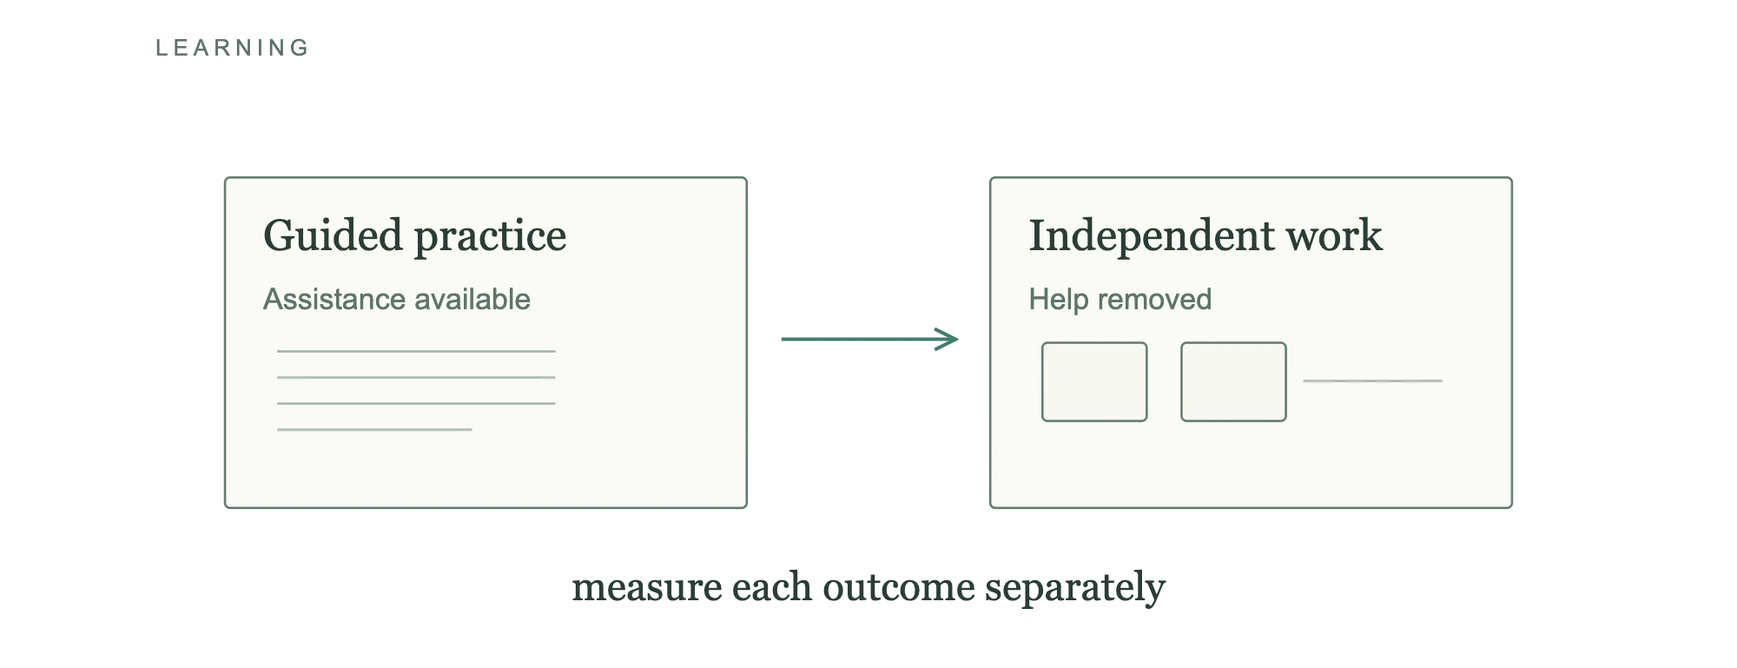
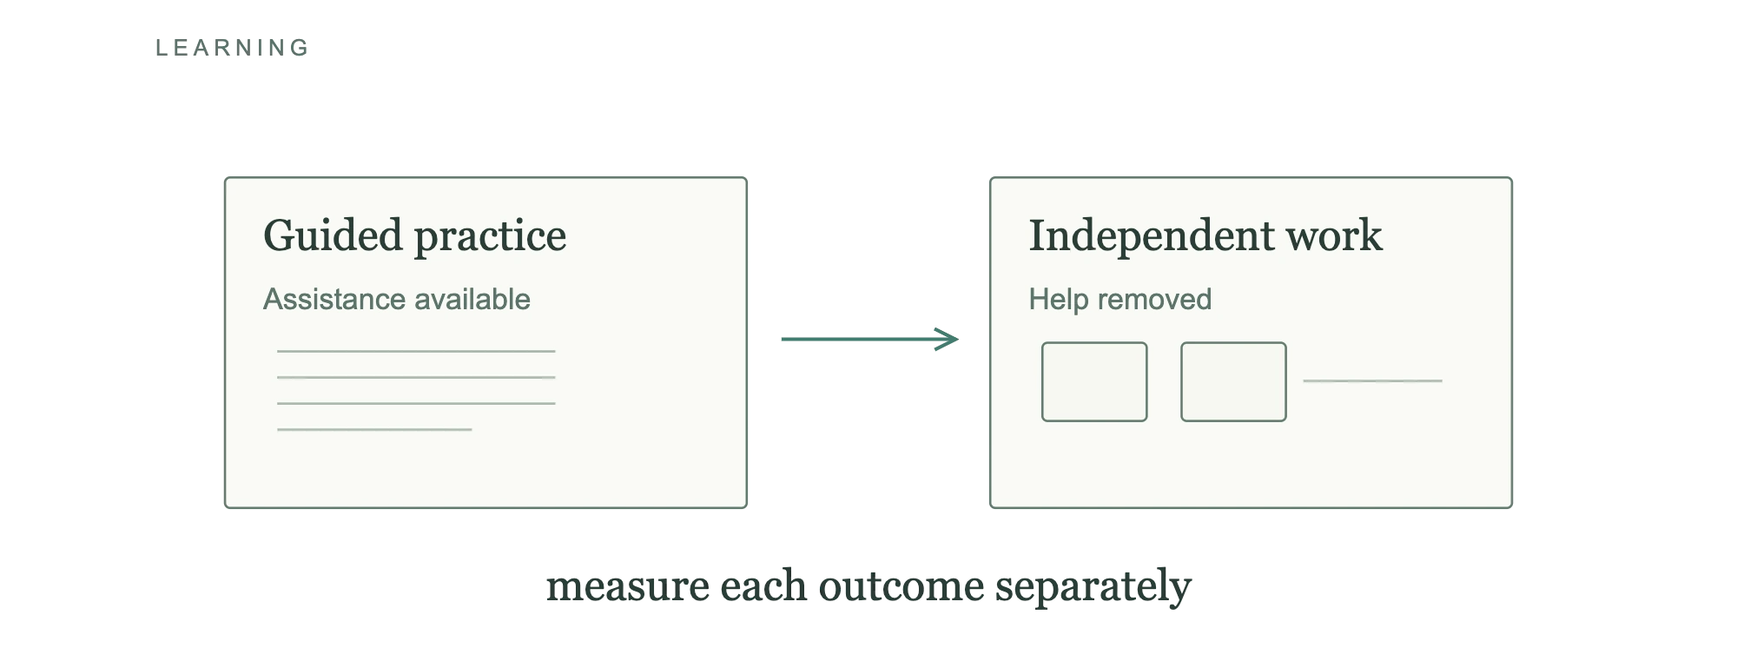
Give five industry covers a drawing that argues and a serif conclusion

Changed region(s): [[0.31, 0.8427, 0.682, 0.9051]]

diff --git a/scripts/covers/choosing-an-export-for-the-next-person.html b/scripts/covers/choosing-an-export-for-the-next-person.html
@@ -1,1 +1,1 @@
-<!doctype html><html lang="en"><head><meta charset="utf-8"><title>Choosing an export for the next person</title><style>*{box-sizing:border-box;margin:0}html,body{background:#e9ecea}.sheet{position:relative;width:var(--w);height:var(--h);overflow:hidden;background:#e2e8e3}.sheet img{position:absolute;width:100%;height:100%;object-fit:cover;filter:saturate(.45)}.wash{position:absolute;inset:0;background:linear-gradient(140deg,rgba(235,239,233,.82),rgba(230,236,232,.93))}svg{position:absolute;inset:0;width:100%;height:100%}text{font-family:Georgia,serif;fill:#293d37}.quiet,.eyebrow{font-family:Arial,sans-serif;fill:#5c746c}.eyebrow{letter-spacing:3px;font-size:13px}.box{fill:#f6f7ef;fill-opacity:.68;stroke:#637b71;stroke-width:1.3}.boundary{fill:none;stroke:#9aafa5;stroke-width:1;stroke-dasharray:4 7}.line{fill:none;stroke:#526d62;stroke-width:1.8}.accent{fill:none;stroke:#437c70;stroke-width:2}.faint{fill:none;stroke:#81978b;stroke-width:1.4;opacity:.65}.dash{fill:none;stroke:#437c70;stroke-width:1.5;stroke-dasharray:5 5}.dot{fill:#437c70}.registration{fill:none;stroke:#8da196;stroke-width:1}</style></head><body><div class="sheet"><img src="ph-engine.jpg" alt=""><div class="wash"></div><svg id="plate" xmlns="http://www.w3.org/2000/svg"><defs><marker id="arrow" markerWidth="8" markerHeight="8" refX="7" refY="4" orient="auto"><path d="M1 1 L7 4 L1 7" fill="none" stroke="#437c70" stroke-width="1"/></marker></defs><g id="content"><text x="60" y="0" font-size="13" class="eyebrow" text-anchor="start">DOCUMENTS</text><g transform="translate(0 35)"><rect x="55" y="25" width="245" height="215" rx="3" class="box"></rect><text x="77" y="67" font-size="25" class="label" text-anchor="start">Read</text><text x="77" y="101" font-size="17" class="quiet" text-anchor="start">A reference copy</text><path d="M80 135 L250 135" class="faint"></path><path d="M80 150 L250 150" class="faint"></path><path d="M80 165 L250 165" class="faint"></path><path d="M80 180 L199.0 180" class="faint"></path><rect x="345" y="25" width="245" height="215" rx="3" class="box"></rect><text x="367" y="67" font-size="25" class="label" text-anchor="start">Revise</text><text x="367" y="101" font-size="17" class="quiet" text-anchor="start">Editable content</text><path d="M370 135 L540 135" class="faint"></path><path d="M370 150 L540 150" class="faint"></path><path d="M370 165 L540 165" class="faint"></path><path d="M370 180 L489.0 180" class="faint"></path><rect x="635" y="25" width="245" height="215" rx="3" class="box"></rect><text x="657" y="67" font-size="25" class="label" text-anchor="start">Present</text><text x="657" y="101" font-size="17" class="quiet" text-anchor="start">A viewing format</text><path d="M660 135 L830 135" class="faint"></path><path d="M660 150 L830 150" class="faint"></path><path d="M660 165 L830 165" class="faint"></path><path d="M660 180 L779.0 180" class="faint"></path></g></g></svg></div><script>const [w,h]=(location.hash.slice(1)||'2000x769').split('x').map(Number);document.querySelector('.sheet').style.cssText=`--w:${w}px;--h:${h}px`;const wide=w/h>2;document.querySelector('svg').setAttribute('viewBox',`0 0 940 ${wide?384:627}`);document.getElementById('content').setAttribute('transform',`translate(0 ${wide?32:145})`);</script></body></html>
+<!doctype html><html lang="en"><head><meta charset="utf-8"><title>Choosing an export for the next person</title><style>*{box-sizing:border-box;margin:0}html,body{background:#e9ecea}.sheet{position:relative;width:var(--w);height:var(--h);overflow:hidden;background:#e2e8e3}.sheet img{position:absolute;width:100%;height:100%;object-fit:cover;filter:saturate(.45)}.wash{position:absolute;inset:0;background:linear-gradient(140deg,rgba(235,239,233,.82),rgba(230,236,232,.93))}svg{position:absolute;inset:0;width:100%;height:100%}text{font-family:Georgia,serif;fill:#293d37}.quiet,.eyebrow{font-family:Arial,sans-serif;fill:#5c746c}.eyebrow{letter-spacing:3px;font-size:13px}.box{fill:#f6f7ef;fill-opacity:.68;stroke:#637b71;stroke-width:1.3}.boundary{fill:none;stroke:#9aafa5;stroke-width:1;stroke-dasharray:4 7}.line{fill:none;stroke:#526d62;stroke-width:1.8}.accent{fill:none;stroke:#437c70;stroke-width:2}.faint{fill:none;stroke:#81978b;stroke-width:1.4;opacity:.65}.dash{fill:none;stroke:#437c70;stroke-width:1.5;stroke-dasharray:5 5}.dot{fill:#437c70}.registration{fill:none;stroke:#8da196;stroke-width:1}</style></head><body><div class="sheet"><img src="ph-engine.jpg" alt=""><div class="wash"></div><svg id="plate" xmlns="http://www.w3.org/2000/svg"><defs><marker id="arrow" markerWidth="8" markerHeight="8" refX="7" refY="4" orient="auto"><path d="M1 1 L7 4 L1 7" fill="none" stroke="#437c70" stroke-width="1"/></marker></defs><g id="content"><text x="60" y="0" font-size="13" class="eyebrow" text-anchor="start">DOCUMENTS</text><g transform="translate(0 35)"><rect x="55" y="20" width="330" height="185" rx="3" class="box"></rect><text x="77" y="62" font-size="25" class="label" text-anchor="start">One exported file</text><text x="77" y="96" font-size="17" class="quiet" text-anchor="start">Sent to the next person</text><path d="M85 108 L305 108" class="faint"></path><path d="M85 123 L239.0 123" class="faint"></path><rect x="85" y="140" width="165" height="56" rx="3" class="box"></rect><path d="M108 188 L108 168" class="faint"></path><path d="M133 188 L133 152" class="faint"></path><path d="M158 188 L158 174" class="faint"></path><path d="M183 188 L183 158" class="faint"></path><path d="M208 188 L208 164" class="faint"></path><path d="M400 112 L470 112" class="accent" marker-end="url(#arrow)"></path><path d="M510 58 l8 8 l18 -21" class="accent"></path><text x="550" y="63" font-size="23" class="label" text-anchor="start">It opens</text><path d="M510 112 l8 8 l18 -21" class="accent"></path><text x="550" y="117" font-size="23" class="label" text-anchor="start">It looks right</text><path d="M512 153 l16 26 M528 153 l-16 26" class="accent"></path><text x="550" y="171" font-size="23" class="label" text-anchor="start">The chart is a picture</text><text x="470" y="272" font-size="25" class="label" text-anchor="middle">the next task is the test</text></g></g></svg></div><script>const [w,h]=(location.hash.slice(1)||'2000x769').split('x').map(Number);document.querySelector('.sheet').style.cssText=`--w:${w}px;--h:${h}px`;const wide=w/h>2;document.querySelector('svg').setAttribute('viewBox',`0 0 940 ${wide?384:627}`);document.getElementById('content').setAttribute('transform',`translate(0 ${wide?32:145})`);</script></body></html>

diff --git a/scripts/covers/remembering-after-practice.html b/scripts/covers/remembering-after-practice.html
@@ -1,1 +1,1 @@
-<!doctype html><html lang="en"><head><meta charset="utf-8"><title>Checking what a learner remembers later</title><style>*{box-sizing:border-box;margin:0}html,body{background:#e9ecea}.sheet{position:relative;width:var(--w);height:var(--h);overflow:hidden;background:#e2e8e3}.sheet img{position:absolute;width:100%;height:100%;object-fit:cover;filter:saturate(.45)}.wash{position:absolute;inset:0;background:linear-gradient(140deg,rgba(235,239,233,.82),rgba(230,236,232,.93))}svg{position:absolute;inset:0;width:100%;height:100%}text{font-family:Georgia,serif;fill:#293d37}.quiet,.eyebrow{font-family:Arial,sans-serif;fill:#5c746c}.eyebrow{letter-spacing:3px;font-size:13px}.box{fill:#f6f7ef;fill-opacity:.68;stroke:#637b71;stroke-width:1.3}.boundary{fill:none;stroke:#9aafa5;stroke-width:1;stroke-dasharray:4 7}.line{fill:none;stroke:#526d62;stroke-width:1.8}.accent{fill:none;stroke:#437c70;stroke-width:2}.faint{fill:none;stroke:#81978b;stroke-width:1.4;opacity:.65}.dash{fill:none;stroke:#437c70;stroke-width:1.5;stroke-dasharray:5 5}.dot{fill:#437c70}.registration{fill:none;stroke:#8da196;stroke-width:1}</style></head><body><div class="sheet"><img src="ph-engine.jpg" alt=""><div class="wash"></div><svg id="plate" xmlns="http://www.w3.org/2000/svg"><defs><marker id="arrow" markerWidth="8" markerHeight="8" refX="7" refY="4" orient="auto"><path d="M1 1 L7 4 L1 7" fill="none" stroke="#437c70" stroke-width="1"/></marker></defs><g id="content"><text x="60" y="0" font-size="13" class="eyebrow" text-anchor="start">LEARNING</text><g transform="translate(0 35)"><circle cx="160" cy="80" r="42" class="line"></circle><text x="160" y="88" font-size="26" class="label" text-anchor="middle">1</text><text x="160" y="164" font-size="24" class="label" text-anchor="middle">Study</text><text x="160" y="200" font-size="18" class="quiet" text-anchor="middle">Meet the idea</text><circle cx="470" cy="80" r="42" class="line"></circle><text x="470" y="88" font-size="26" class="label" text-anchor="middle">2</text><text x="470" y="164" font-size="24" class="label" text-anchor="middle">Recall</text><text x="470" y="200" font-size="18" class="quiet" text-anchor="middle">Try without the text</text><circle cx="780" cy="80" r="42" class="line"></circle><text x="780" y="88" font-size="26" class="label" text-anchor="middle">3</text><text x="780" y="164" font-size="24" class="label" text-anchor="middle">Return</text><text x="780" y="200" font-size="18" class="quiet" text-anchor="middle">Check after a delay</text><path d="M220 80 L410 80" class="accent" marker-end="url(#arrow)"></path><path d="M530 80 L720 80" class="accent" marker-end="url(#arrow)"></path></g></g></svg></div><script>const [w,h]=(location.hash.slice(1)||'2000x769').split('x').map(Number);document.querySelector('.sheet').style.cssText=`--w:${w}px;--h:${h}px`;const wide=w/h>2;document.querySelector('svg').setAttribute('viewBox',`0 0 940 ${wide?384:627}`);document.getElementById('content').setAttribute('transform',`translate(0 ${wide?32:145})`);</script></body></html>
+<!doctype html><html lang="en"><head><meta charset="utf-8"><title>Checking what a learner remembers later</title><style>*{box-sizing:border-box;margin:0}html,body{background:#e9ecea}.sheet{position:relative;width:var(--w);height:var(--h);overflow:hidden;background:#e2e8e3}.sheet img{position:absolute;width:100%;height:100%;object-fit:cover;filter:saturate(.45)}.wash{position:absolute;inset:0;background:linear-gradient(140deg,rgba(235,239,233,.82),rgba(230,236,232,.93))}svg{position:absolute;inset:0;width:100%;height:100%}text{font-family:Georgia,serif;fill:#293d37}.quiet,.eyebrow{font-family:Arial,sans-serif;fill:#5c746c}.eyebrow{letter-spacing:3px;font-size:13px}.box{fill:#f6f7ef;fill-opacity:.68;stroke:#637b71;stroke-width:1.3}.boundary{fill:none;stroke:#9aafa5;stroke-width:1;stroke-dasharray:4 7}.line{fill:none;stroke:#526d62;stroke-width:1.8}.accent{fill:none;stroke:#437c70;stroke-width:2}.faint{fill:none;stroke:#81978b;stroke-width:1.4;opacity:.65}.dash{fill:none;stroke:#437c70;stroke-width:1.5;stroke-dasharray:5 5}.dot{fill:#437c70}.registration{fill:none;stroke:#8da196;stroke-width:1}</style></head><body><div class="sheet"><img src="ph-engine.jpg" alt=""><div class="wash"></div><svg id="plate" xmlns="http://www.w3.org/2000/svg"><defs><marker id="arrow" markerWidth="8" markerHeight="8" refX="7" refY="4" orient="auto"><path d="M1 1 L7 4 L1 7" fill="none" stroke="#437c70" stroke-width="1"/></marker></defs><g id="content"><text x="60" y="0" font-size="13" class="eyebrow" text-anchor="start">LEARNING</text><g transform="translate(0 35)"><circle cx="150" cy="80" r="42" class="line"></circle><text x="150" y="88" font-size="26" class="label" text-anchor="middle">1</text><text x="150" y="164" font-size="24" class="label" text-anchor="middle">Study</text><text x="150" y="200" font-size="18" class="quiet" text-anchor="middle">Meet the idea</text><circle cx="430" cy="80" r="42" class="line"></circle><text x="430" y="88" font-size="26" class="label" text-anchor="middle">2</text><text x="430" y="164" font-size="24" class="label" text-anchor="middle">Recall</text><text x="430" y="200" font-size="18" class="quiet" text-anchor="middle">Try without the text</text><circle cx="820" cy="80" r="42" class="line"></circle><text x="820" y="88" font-size="26" class="label" text-anchor="middle">3</text><text x="820" y="164" font-size="24" class="label" text-anchor="middle">Return</text><text x="820" y="200" font-size="18" class="quiet" text-anchor="middle">Check after a delay</text><path d="M198 80 L382 80" class="accent" marker-end="url(#arrow)"></path><path d="M478 80 L772 80" class="accent" marker-end="url(#arrow)"></path><text x="625" y="62" font-size="19" class="quiet" text-anchor="middle">two days, then a week</text><text x="470" y="268" font-size="25" class="label" text-anchor="middle">the delay is part of the test</text></g></g></svg></div><script>const [w,h]=(location.hash.slice(1)||'2000x769').split('x').map(Number);document.querySelector('.sheet').style.cssText=`--w:${w}px;--h:${h}px`;const wide=w/h>2;document.querySelector('svg').setAttribute('viewBox',`0 0 940 ${wide?384:627}`);document.getElementById('content').setAttribute('transform',`translate(0 ${wide?32:145})`);</script></body></html>

diff --git a/scripts/covers/what-an-agent-can-change.html b/scripts/covers/what-an-agent-can-change.html
@@ -1,1 +1,1 @@
-<!doctype html><html lang="en"><head><meta charset="utf-8"><title>What an agent is allowed to change</title><style>*{box-sizing:border-box;margin:0}html,body{background:#e9ecea}.sheet{position:relative;width:var(--w);height:var(--h);overflow:hidden;background:#e2e8e3}.sheet img{position:absolute;width:100%;height:100%;object-fit:cover;filter:saturate(.45)}.wash{position:absolute;inset:0;background:linear-gradient(140deg,rgba(235,239,233,.82),rgba(230,236,232,.93))}svg{position:absolute;inset:0;width:100%;height:100%}text{font-family:Georgia,serif;fill:#293d37}.quiet,.eyebrow{font-family:Arial,sans-serif;fill:#5c746c}.eyebrow{letter-spacing:3px;font-size:13px}.box{fill:#f6f7ef;fill-opacity:.68;stroke:#637b71;stroke-width:1.3}.boundary{fill:none;stroke:#9aafa5;stroke-width:1;stroke-dasharray:4 7}.line{fill:none;stroke:#526d62;stroke-width:1.8}.accent{fill:none;stroke:#437c70;stroke-width:2}.faint{fill:none;stroke:#81978b;stroke-width:1.4;opacity:.65}.dash{fill:none;stroke:#437c70;stroke-width:1.5;stroke-dasharray:5 5}.dot{fill:#437c70}.registration{fill:none;stroke:#8da196;stroke-width:1}</style></head><body><div class="sheet"><img src="ph-offline.jpg" alt=""><div class="wash"></div><svg id="plate" xmlns="http://www.w3.org/2000/svg"><defs><marker id="arrow" markerWidth="8" markerHeight="8" refX="7" refY="4" orient="auto"><path d="M1 1 L7 4 L1 7" fill="none" stroke="#437c70" stroke-width="1"/></marker></defs><g id="content"><text x="60" y="0" font-size="13" class="eyebrow" text-anchor="start">AI SYSTEMS</text><g transform="translate(0 35)"><rect x="60" y="10" width="815" height="235" rx="3" class="boundary"></rect><rect x="85" y="55" width="205" height="130" rx="3" class="box"></rect><text x="107" y="97" font-size="25" class="label" text-anchor="start">Read</text><text x="107" y="131" font-size="17" class="quiet" text-anchor="start">Source content</text><rect x="355" y="55" width="205" height="130" rx="3" class="box"></rect><text x="377" y="97" font-size="25" class="label" text-anchor="start">Draft</text><text x="377" y="131" font-size="17" class="quiet" text-anchor="start">Proposed action</text><rect x="650" y="55" width="200" height="130" rx="3" class="box"></rect><text x="672" y="97" font-size="25" class="label" text-anchor="start">Send</text><text x="672" y="131" font-size="17" class="quiet" text-anchor="start">Authorized action</text><path d="M300 115 L340 115" class="accent" marker-end="url(#arrow)"></path><path d="M575 115 L630 115" class="accent" marker-end="url(#arrow)"></path><path d="M610 15 L610 235" class="dash"></path><text x="610" y="277" font-size="22" class="quiet" text-anchor="middle">review the actual action</text></g></g></svg></div><script>const [w,h]=(location.hash.slice(1)||'2000x769').split('x').map(Number);document.querySelector('.sheet').style.cssText=`--w:${w}px;--h:${h}px`;const wide=w/h>2;document.querySelector('svg').setAttribute('viewBox',`0 0 940 ${wide?384:627}`);document.getElementById('content').setAttribute('transform',`translate(0 ${wide?32:145})`);</script></body></html>
+<!doctype html><html lang="en"><head><meta charset="utf-8"><title>What an agent is allowed to change</title><style>*{box-sizing:border-box;margin:0}html,body{background:#e9ecea}.sheet{position:relative;width:var(--w);height:var(--h);overflow:hidden;background:#e2e8e3}.sheet img{position:absolute;width:100%;height:100%;object-fit:cover;filter:saturate(.45)}.wash{position:absolute;inset:0;background:linear-gradient(140deg,rgba(235,239,233,.82),rgba(230,236,232,.93))}svg{position:absolute;inset:0;width:100%;height:100%}text{font-family:Georgia,serif;fill:#293d37}.quiet,.eyebrow{font-family:Arial,sans-serif;fill:#5c746c}.eyebrow{letter-spacing:3px;font-size:13px}.box{fill:#f6f7ef;fill-opacity:.68;stroke:#637b71;stroke-width:1.3}.boundary{fill:none;stroke:#9aafa5;stroke-width:1;stroke-dasharray:4 7}.line{fill:none;stroke:#526d62;stroke-width:1.8}.accent{fill:none;stroke:#437c70;stroke-width:2}.faint{fill:none;stroke:#81978b;stroke-width:1.4;opacity:.65}.dash{fill:none;stroke:#437c70;stroke-width:1.5;stroke-dasharray:5 5}.dot{fill:#437c70}.registration{fill:none;stroke:#8da196;stroke-width:1}</style></head><body><div class="sheet"><img src="ph-offline.jpg" alt=""><div class="wash"></div><svg id="plate" xmlns="http://www.w3.org/2000/svg"><defs><marker id="arrow" markerWidth="8" markerHeight="8" refX="7" refY="4" orient="auto"><path d="M1 1 L7 4 L1 7" fill="none" stroke="#437c70" stroke-width="1"/></marker></defs><g id="content"><text x="60" y="0" font-size="13" class="eyebrow" text-anchor="start">AI SYSTEMS</text><g transform="translate(0 35)"><rect x="60" y="10" width="815" height="235" rx="3" class="boundary"></rect><rect x="85" y="55" width="205" height="130" rx="3" class="box"></rect><text x="107" y="97" font-size="25" class="label" text-anchor="start">Read</text><text x="107" y="131" font-size="17" class="quiet" text-anchor="start">Source content</text><rect x="355" y="55" width="205" height="130" rx="3" class="box"></rect><text x="377" y="97" font-size="25" class="label" text-anchor="start">Draft</text><text x="377" y="131" font-size="17" class="quiet" text-anchor="start">Proposed action</text><rect x="650" y="55" width="200" height="130" rx="3" class="box"></rect><text x="672" y="97" font-size="25" class="label" text-anchor="start">Send</text><text x="672" y="131" font-size="17" class="quiet" text-anchor="start">Authorized action</text><path d="M300 115 L340 115" class="accent" marker-end="url(#arrow)"></path><path d="M575 115 L630 115" class="accent" marker-end="url(#arrow)"></path><path d="M610 15 L610 235" class="dash"></path><text x="470" y="277" font-size="25" class="label" text-anchor="middle">review the actual action</text></g></g></svg></div><script>const [w,h]=(location.hash.slice(1)||'2000x769').split('x').map(Number);document.querySelector('.sheet').style.cssText=`--w:${w}px;--h:${h}px`;const wide=w/h>2;document.querySelector('svg').setAttribute('viewBox',`0 0 940 ${wide?384:627}`);document.getElementById('content').setAttribute('transform',`translate(0 ${wide?32:145})`);</script></body></html>

diff --git a/scripts/covers/learning-after-ai-help.html b/scripts/covers/learning-after-ai-help.html
@@ -1,1 +1,1 @@
-<!doctype html><html lang="en"><head><meta charset="utf-8"><title>What students can do after the help is removed</title><style>*{box-sizing:border-box;margin:0}html,body{background:#e9ecea}.sheet{position:relative;width:var(--w);height:var(--h);overflow:hidden;background:#e2e8e3}.sheet img{position:absolute;width:100%;height:100%;object-fit:cover;filter:saturate(.45)}.wash{position:absolute;inset:0;background:linear-gradient(140deg,rgba(235,239,233,.82),rgba(230,236,232,.93))}svg{position:absolute;inset:0;width:100%;height:100%}text{font-family:Georgia,serif;fill:#293d37}.quiet,.eyebrow{font-family:Arial,sans-serif;fill:#5c746c}.eyebrow{letter-spacing:3px;font-size:13px}.box{fill:#f6f7ef;fill-opacity:.68;stroke:#637b71;stroke-width:1.3}.boundary{fill:none;stroke:#9aafa5;stroke-width:1;stroke-dasharray:4 7}.line{fill:none;stroke:#526d62;stroke-width:1.8}.accent{fill:none;stroke:#437c70;stroke-width:2}.faint{fill:none;stroke:#81978b;stroke-width:1.4;opacity:.65}.dash{fill:none;stroke:#437c70;stroke-width:1.5;stroke-dasharray:5 5}.dot{fill:#437c70}.registration{fill:none;stroke:#8da196;stroke-width:1}</style></head><body><div class="sheet"><img src="ph-map.jpg" alt=""><div class="wash"></div><svg id="plate" xmlns="http://www.w3.org/2000/svg"><defs><marker id="arrow" markerWidth="8" markerHeight="8" refX="7" refY="4" orient="auto"><path d="M1 1 L7 4 L1 7" fill="none" stroke="#437c70" stroke-width="1"/></marker></defs><g id="content"><text x="60" y="0" font-size="13" class="eyebrow" text-anchor="start">LEARNING</text><g transform="translate(0 35)"><rect x="100" y="35" width="300" height="190" rx="3" class="box"></rect><text x="122" y="77" font-size="25" class="label" text-anchor="start">Guided practice</text><text x="122" y="111" font-size="17" class="quiet" text-anchor="start">Assistance available</text><path d="M130 135 L290 135" class="faint"></path><path d="M130 150 L290 150" class="faint"></path><path d="M130 165 L290 165" class="faint"></path><path d="M130 180 L242.0 180" class="faint"></path><path d="M420 128 L520 128" class="accent" marker-end="url(#arrow)"></path><rect x="540" y="35" width="300" height="190" rx="3" class="box"></rect><text x="562" y="77" font-size="25" class="label" text-anchor="start">Independent work</text><text x="562" y="111" font-size="17" class="quiet" text-anchor="start">Help removed</text><rect x="570" y="130" width="60" height="45" rx="3" class="box"></rect><rect x="650" y="130" width="60" height="45" rx="3" class="box"></rect><path d="M720 152 L800 152" class="faint"></path><text x="470" y="278" font-size="23" class="label" text-anchor="middle">measure each outcome separately</text></g></g></svg></div><script>const [w,h]=(location.hash.slice(1)||'2000x769').split('x').map(Number);document.querySelector('.sheet').style.cssText=`--w:${w}px;--h:${h}px`;const wide=w/h>2;document.querySelector('svg').setAttribute('viewBox',`0 0 940 ${wide?384:627}`);document.getElementById('content').setAttribute('transform',`translate(0 ${wide?32:145})`);</script></body></html>
+<!doctype html><html lang="en"><head><meta charset="utf-8"><title>What students can do after the help is removed</title><style>*{box-sizing:border-box;margin:0}html,body{background:#e9ecea}.sheet{position:relative;width:var(--w);height:var(--h);overflow:hidden;background:#e2e8e3}.sheet img{position:absolute;width:100%;height:100%;object-fit:cover;filter:saturate(.45)}.wash{position:absolute;inset:0;background:linear-gradient(140deg,rgba(235,239,233,.82),rgba(230,236,232,.93))}svg{position:absolute;inset:0;width:100%;height:100%}text{font-family:Georgia,serif;fill:#293d37}.quiet,.eyebrow{font-family:Arial,sans-serif;fill:#5c746c}.eyebrow{letter-spacing:3px;font-size:13px}.box{fill:#f6f7ef;fill-opacity:.68;stroke:#637b71;stroke-width:1.3}.boundary{fill:none;stroke:#9aafa5;stroke-width:1;stroke-dasharray:4 7}.line{fill:none;stroke:#526d62;stroke-width:1.8}.accent{fill:none;stroke:#437c70;stroke-width:2}.faint{fill:none;stroke:#81978b;stroke-width:1.4;opacity:.65}.dash{fill:none;stroke:#437c70;stroke-width:1.5;stroke-dasharray:5 5}.dot{fill:#437c70}.registration{fill:none;stroke:#8da196;stroke-width:1}</style></head><body><div class="sheet"><img src="ph-map.jpg" alt=""><div class="wash"></div><svg id="plate" xmlns="http://www.w3.org/2000/svg"><defs><marker id="arrow" markerWidth="8" markerHeight="8" refX="7" refY="4" orient="auto"><path d="M1 1 L7 4 L1 7" fill="none" stroke="#437c70" stroke-width="1"/></marker></defs><g id="content"><text x="60" y="0" font-size="13" class="eyebrow" text-anchor="start">LEARNING</text><g transform="translate(0 35)"><rect x="100" y="35" width="300" height="190" rx="3" class="box"></rect><text x="122" y="77" font-size="25" class="label" text-anchor="start">Guided practice</text><text x="122" y="111" font-size="17" class="quiet" text-anchor="start">Assistance available</text><path d="M130 135 L290 135" class="faint"></path><path d="M130 150 L290 150" class="faint"></path><path d="M130 165 L290 165" class="faint"></path><path d="M130 180 L242.0 180" class="faint"></path><path d="M420 128 L520 128" class="accent" marker-end="url(#arrow)"></path><rect x="540" y="35" width="300" height="190" rx="3" class="box"></rect><text x="562" y="77" font-size="25" class="label" text-anchor="start">Independent work</text><text x="562" y="111" font-size="17" class="quiet" text-anchor="start">Help removed</text><rect x="570" y="130" width="60" height="45" rx="3" class="box"></rect><rect x="650" y="130" width="60" height="45" rx="3" class="box"></rect><path d="M720 152 L800 152" class="faint"></path><text x="470" y="278" font-size="25" class="label" text-anchor="middle">measure each outcome separately</text></g></g></svg></div><script>const [w,h]=(location.hash.slice(1)||'2000x769').split('x').map(Number);document.querySelector('.sheet').style.cssText=`--w:${w}px;--h:${h}px`;const wide=w/h>2;document.querySelector('svg').setAttribute('viewBox',`0 0 940 ${wide?384:627}`);document.getElementById('content').setAttribute('transform',`translate(0 ${wide?32:145})`);</script></body></html>

diff --git a/scripts/covers/when-a-payment-times-out.html b/scripts/covers/when-a-payment-times-out.html
@@ -1,1 +1,1 @@
-<!doctype html><html lang="en"><head><meta charset="utf-8"><title>When a payment times out</title><style>*{box-sizing:border-box;margin:0}html,body{background:#e9ecea}.sheet{position:relative;width:var(--w);height:var(--h);overflow:hidden;background:#e2e8e3}.sheet img{position:absolute;width:100%;height:100%;object-fit:cover;filter:saturate(.45)}.wash{position:absolute;inset:0;background:linear-gradient(140deg,rgba(235,239,233,.82),rgba(230,236,232,.93))}svg{position:absolute;inset:0;width:100%;height:100%}text{font-family:Georgia,serif;fill:#293d37}.quiet,.eyebrow{font-family:Arial,sans-serif;fill:#5c746c}.eyebrow{letter-spacing:3px;font-size:13px}.box{fill:#f6f7ef;fill-opacity:.68;stroke:#637b71;stroke-width:1.3}.boundary{fill:none;stroke:#9aafa5;stroke-width:1;stroke-dasharray:4 7}.line{fill:none;stroke:#526d62;stroke-width:1.8}.accent{fill:none;stroke:#437c70;stroke-width:2}.faint{fill:none;stroke:#81978b;stroke-width:1.4;opacity:.65}.dash{fill:none;stroke:#437c70;stroke-width:1.5;stroke-dasharray:5 5}.dot{fill:#437c70}.registration{fill:none;stroke:#8da196;stroke-width:1}</style></head><body><div class="sheet"><img src="ph-slot.jpg" alt=""><div class="wash"></div><svg id="plate" xmlns="http://www.w3.org/2000/svg"><defs><marker id="arrow" markerWidth="8" markerHeight="8" refX="7" refY="4" orient="auto"><path d="M1 1 L7 4 L1 7" fill="none" stroke="#437c70" stroke-width="1"/></marker></defs><g id="content"><text x="60" y="0" font-size="13" class="eyebrow" text-anchor="start">PAYMENTS</text><g transform="translate(0 35)"><rect x="65" y="30" width="230" height="155" rx="3" class="box"></rect><text x="87" y="72" font-size="25" class="label" text-anchor="start">Submitted</text><text x="87" y="106" font-size="17" class="quiet" text-anchor="start">One purchase</text><rect x="620" y="30" width="250" height="155" rx="3" class="box"></rect><text x="642" y="72" font-size="25" class="label" text-anchor="start">Processed</text><text x="642" y="106" font-size="17" class="quiet" text-anchor="start">Record to confirm</text><path d="M310 75 L600 75" class="accent" marker-end="url(#arrow)"></path><path d="M615 140 H485 M440 140 H310" class="faint"></path><path d="M455 127 l16 26 M471 127 l-16 26" class="accent"></path><text x="455" y="198" font-size="20" class="quiet" text-anchor="middle">confirmation interrupted</text><path d="M180 200 V235 H745 V200" class="accent"></path><text x="460" y="269" font-size="20" class="quiet" text-anchor="middle">check the same operation</text></g></g></svg></div><script>const [w,h]=(location.hash.slice(1)||'2000x769').split('x').map(Number);document.querySelector('.sheet').style.cssText=`--w:${w}px;--h:${h}px`;const wide=w/h>2;document.querySelector('svg').setAttribute('viewBox',`0 0 940 ${wide?384:627}`);document.getElementById('content').setAttribute('transform',`translate(0 ${wide?32:145})`);</script></body></html>
+<!doctype html><html lang="en"><head><meta charset="utf-8"><title>When a payment times out</title><style>*{box-sizing:border-box;margin:0}html,body{background:#e9ecea}.sheet{position:relative;width:var(--w);height:var(--h);overflow:hidden;background:#e2e8e3}.sheet img{position:absolute;width:100%;height:100%;object-fit:cover;filter:saturate(.45)}.wash{position:absolute;inset:0;background:linear-gradient(140deg,rgba(235,239,233,.82),rgba(230,236,232,.93))}svg{position:absolute;inset:0;width:100%;height:100%}text{font-family:Georgia,serif;fill:#293d37}.quiet,.eyebrow{font-family:Arial,sans-serif;fill:#5c746c}.eyebrow{letter-spacing:3px;font-size:13px}.box{fill:#f6f7ef;fill-opacity:.68;stroke:#637b71;stroke-width:1.3}.boundary{fill:none;stroke:#9aafa5;stroke-width:1;stroke-dasharray:4 7}.line{fill:none;stroke:#526d62;stroke-width:1.8}.accent{fill:none;stroke:#437c70;stroke-width:2}.faint{fill:none;stroke:#81978b;stroke-width:1.4;opacity:.65}.dash{fill:none;stroke:#437c70;stroke-width:1.5;stroke-dasharray:5 5}.dot{fill:#437c70}.registration{fill:none;stroke:#8da196;stroke-width:1}</style></head><body><div class="sheet"><img src="ph-slot.jpg" alt=""><div class="wash"></div><svg id="plate" xmlns="http://www.w3.org/2000/svg"><defs><marker id="arrow" markerWidth="8" markerHeight="8" refX="7" refY="4" orient="auto"><path d="M1 1 L7 4 L1 7" fill="none" stroke="#437c70" stroke-width="1"/></marker></defs><g id="content"><text x="60" y="0" font-size="13" class="eyebrow" text-anchor="start">PAYMENTS</text><g transform="translate(0 35)"><rect x="65" y="30" width="230" height="155" rx="3" class="box"></rect><text x="87" y="72" font-size="25" class="label" text-anchor="start">Submitted</text><text x="87" y="106" font-size="17" class="quiet" text-anchor="start">One purchase</text><rect x="620" y="30" width="250" height="155" rx="3" class="box"></rect><text x="642" y="72" font-size="25" class="label" text-anchor="start">Processed</text><text x="642" y="106" font-size="17" class="quiet" text-anchor="start">Record to confirm</text><path d="M310 75 L600 75" class="accent" marker-end="url(#arrow)"></path><path d="M615 140 H485 M440 140 H310" class="faint"></path><path d="M455 127 l16 26 M471 127 l-16 26" class="accent"></path><text x="455" y="198" font-size="20" class="quiet" text-anchor="middle">confirmation interrupted</text><path d="M180 200 V235 H745 V200" class="accent"></path><text x="460" y="269" font-size="25" class="label" text-anchor="middle">check the same operation</text></g></g></svg></div><script>const [w,h]=(location.hash.slice(1)||'2000x769').split('x').map(Number);document.querySelector('.sheet').style.cssText=`--w:${w}px;--h:${h}px`;const wide=w/h>2;document.querySelector('svg').setAttribute('viewBox',`0 0 940 ${wide?384:627}`);document.getElementById('content').setAttribute('transform',`translate(0 ${wide?32:145})`);</script></body></html>

diff --git a/scripts/covers/industry-plates.py b/scripts/covers/industry-plates.py
@@ -21,21 +21,31 @@ def drawing(i):
  if i==0:
   return card(70,25,245,180,'Customer','$100 returned')+card(565,25,300,180,'Business','Original fee remains')+arrow(565,110,335,110)+text(440,88,'refund',19,'quiet','middle')+line(590,152,835,152,'faint')+text(590,185,'sale reversed · fee retained',17,'quiet')
  if i==1:
-  return card(65,30,230,155,'Submitted','One purchase')+card(620,30,250,155,'Processed','Record to confirm')+arrow(310,75,600,75)+path('M615 140 H485 M440 140 H310','faint')+path('M455 127 l16 26 M471 127 l-16 26','accent')+text(455,198,'confirmation interrupted',20,'quiet','middle')+path('M180 200 V235 H745 V200','accent')+text(460,269,'check the same operation',20,'quiet','middle')
+  return card(65,30,230,155,'Submitted','One purchase')+card(620,30,250,155,'Processed','Record to confirm')+arrow(310,75,600,75)+path('M615 140 H485 M440 140 H310','faint')+path('M455 127 l16 26 M471 127 l-16 26','accent')+text(455,198,'confirmation interrupted',20,'quiet','middle')+path('M180 200 V235 H745 V200','accent')+text(460,269,'check the same operation',25,anchor='middle')
  if i==2:
   return clock(195,95,'Before the change')+clock(725,95,'After the change')+arrow(290,95,630,95)+text(460,65,'same local time',24,anchor='middle')+text(460,140,'time-zone rules',19,'quiet','middle')+text(460,251,'09:00 · one recurring appointment',26,anchor='middle')
  if i==3:
-  return ''.join(card(x,25,245,215,a,b)+bars(x+25,135,170,4) for x,a,b in [(55,'Read','A reference copy'),(345,'Revise','Editable content'),(635,'Present','A viewing format')])
+  return (card(55,20,330,185,'One exported file','Sent to the next person')
+   +bars(85,108,220,2)
+   +rect(85,140,165,56)+''.join(line(x,188,x,188-h,'faint') for x,h in ((108,20),(133,36),(158,14),(183,30),(208,24)))
+   +arrow(400,112,470,112)
+   +check(510,58)+text(550,63,'It opens',23)
+   +check(510,112)+text(550,117,'It looks right',23)
+   +path('M512 153 l16 26 M528 153 l-16 26','accent')+text(550,171,'The chart is a picture',23)
+   +text(470,272,'the next task is the test',25,anchor='middle'))
  if i==4:
   return rect(180,0,560,255)+bars(225,45,180,10)+bars(495,45,180,10)+arrow(435,30,435,195)+path('M435 205 V230 H700 V15','accent')+text(460,297,'one column, then the next',25,anchor='middle')
  if i==5:
-  return rect(60,10,815,235,'boundary')+card(85,55,205,130,'Read','Source content')+card(355,55,205,130,'Draft','Proposed action')+card(650,55,200,130,'Send','Authorized action')+arrow(300,115,340,115)+arrow(575,115,630,115)+line(610,15,610,235,'dash')+text(610,277,'review the actual action',22,'quiet','middle')
+  return rect(60,10,815,235,'boundary')+card(85,55,205,130,'Read','Source content')+card(355,55,205,130,'Draft','Proposed action')+card(650,55,200,130,'Send','Authorized action')+arrow(300,115,340,115)+arrow(575,115,630,115)+line(610,15,610,235,'dash')+text(470,277,'review the actual action',25,anchor='middle')
  if i==6:
   return card(80,15,310,225,'Conversation','What the agent said')+bars(105,120,230,4)+arrow(410,125,495,125)+card(515,15,340,225,'System state','What actually changed')+check(545,135)+text(585,140,'correct record',21)+check(545,183)+text(585,188,'expected result',21)
  if i==7:
-  return card(100,35,300,190,'Guided practice','Assistance available')+bars(130,135,160,4)+arrow(420,128,520,128)+card(540,35,300,190,'Independent work','Help removed')+rect(570,130,60,45)+rect(650,130,60,45)+line(720,152,800,152,'faint')+text(470,278,'measure each outcome separately',23,anchor='middle')
+  return card(100,35,300,190,'Guided practice','Assistance available')+bars(130,135,160,4)+arrow(420,128,520,128)+card(540,35,300,190,'Independent work','Help removed')+rect(570,130,60,45)+rect(650,130,60,45)+line(720,152,800,152,'faint')+text(470,278,'measure each outcome separately',25,anchor='middle')
  if i==8:
-  return ''.join(circle(x,80,42)+text(x,88,str(n),26,anchor='middle')+text(x,164,a,24,anchor='middle')+text(x,200,b,18,'quiet','middle') for x,n,a,b in [(160,1,'Study','Meet the idea'),(470,2,'Recall','Try without the text'),(780,3,'Return','Check after a delay')])+arrow(220,80,410,80)+arrow(530,80,720,80)
+  return (''.join(circle(x,80,42)+text(x,88,str(n),26,anchor='middle')+text(x,164,a,24,anchor='middle')+text(x,200,b,18,'quiet','middle') for x,n,a,b in [(150,1,'Study','Meet the idea'),(430,2,'Recall','Try without the text'),(820,3,'Return','Check after a delay')])
+   +arrow(198,80,382,80)+arrow(478,80,772,80)
+   +text(625,62,'two days, then a week',19,'quiet','middle')
+   +text(470,268,'the delay is part of the test',25,anchor='middle'))
  if i==9:
   return ''.join(line(80,40+j*33,370,40+j*33,'faint') for j in range(6))+path('M80 139 H370 L510 139','accent')+text(220,265,'alternatives tried',23,anchor='middle')+arrow(520,139,620,139)+rect(650,35,210,200)+text(755,125,'New data',26,anchor='middle')+text(755,160,'evaluation',18,'quiet','middle')+text(470,15,'keep the search history',20,'quiet','middle')
  # Two sources of direction, weighted against each other, which is the post's actual claim:
